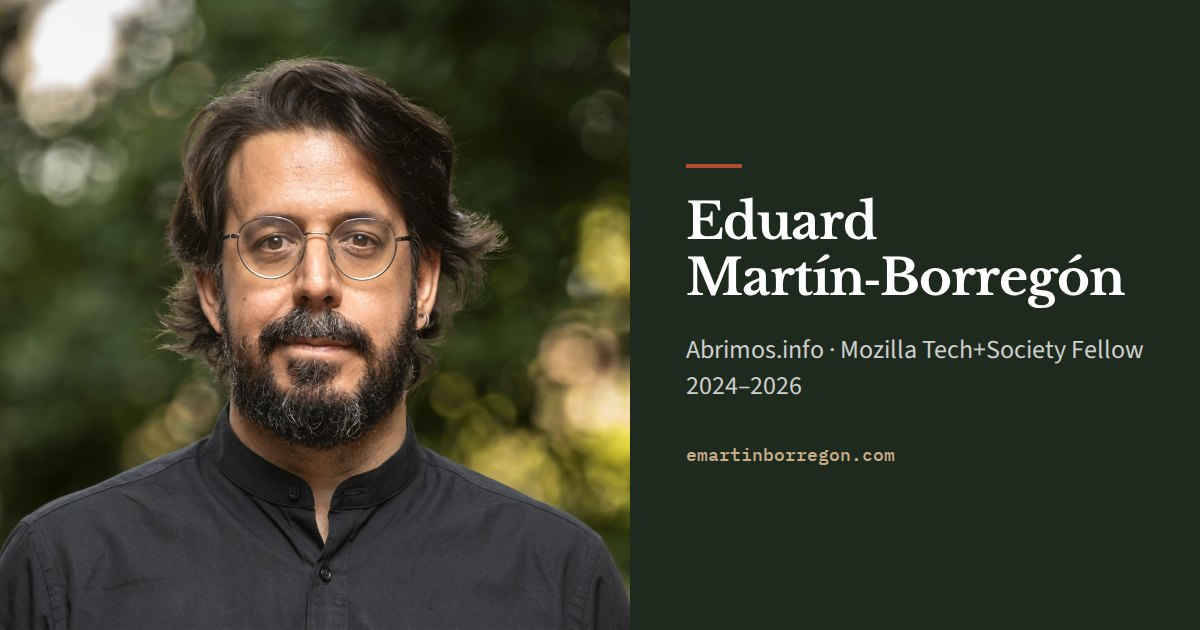
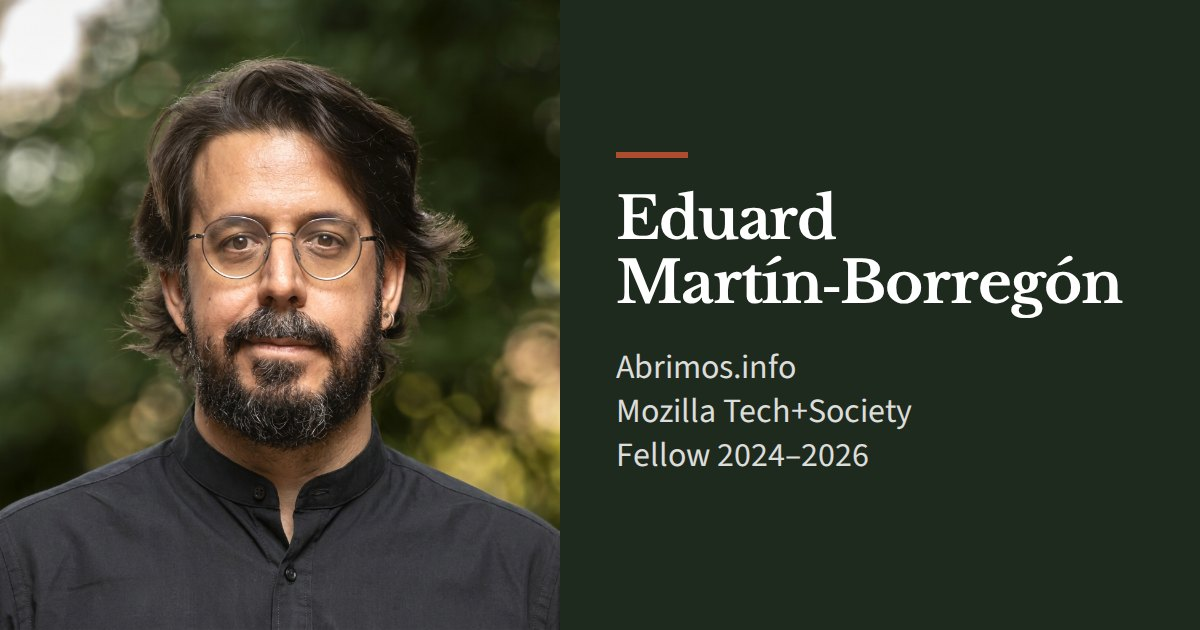
Tarjeta og:image con texto más grande, legible en el feed móvil

diff --git a/ca/index.html b/ca/index.html
@@ -34,7 +34,7 @@
 	<meta property="og:url" content="https://emartinborregon.com/ca/" />
 	<meta property="og:title" content="Eduard Martín-Borregón | Segueixo els diners públics i investigo la compra pública (ara amb IA)" />
 	<meta property="og:description" content="Periodista de dades i director executiu d'Abrimos.info. Segueixo els diners públics i la compra pública a l'Amèrica Llatina, ara també amb IA. Sigma Award 2020 i Mozilla Fellow 2024-2026." />
-	<meta property="og:image" content="https://emartinborregon.com/images/og-emb.jpg" />
+	<meta property="og:image" content="https://emartinborregon.com/images/og-emb.jpg?v=2" />
 	<meta property="og:image:width" content="1200" />
 	<meta property="og:image:height" content="630" />
 	<meta property="og:image:alt" content="Retrat d'Eduard Martín-Borregón" />

diff --git a/en/index.html b/en/index.html
@@ -34,7 +34,7 @@
 	<meta property="og:url" content="https://emartinborregon.com/en/" />
 	<meta property="og:title" content="Eduard Martín-Borregón | I follow public money and investigate public procurement (now with AI)" />
 	<meta property="og:description" content="Data journalist and Executive Director of Abrimos.info. I follow public money and public procurement in Latin America, now with AI too. 2020 Sigma Award winner and Mozilla Fellow 2024-2026." />
-	<meta property="og:image" content="https://emartinborregon.com/images/og-emb.jpg" />
+	<meta property="og:image" content="https://emartinborregon.com/images/og-emb.jpg?v=2" />
 	<meta property="og:image:width" content="1200" />
 	<meta property="og:image:height" content="630" />
 	<meta property="og:image:alt" content="Portrait of Eduard Martín-Borregón" />

diff --git a/index.html b/index.html
@@ -34,7 +34,7 @@
 	<meta property="og:url" content="https://emartinborregon.com/" />
 	<meta property="og:title" content="Eduard Martín-Borregón | Sigo el dinero público e investigo la compra pública (ahora con IA)" />
 	<meta property="og:description" content="Periodista de datos y director ejecutivo de Abrimos.info. Sigo el dinero público y la compra pública en América Latina, ahora también con IA. Sigma Award 2020 y Mozilla Fellow 2024-2026." />
-	<meta property="og:image" content="https://emartinborregon.com/images/og-emb.jpg" />
+	<meta property="og:image" content="https://emartinborregon.com/images/og-emb.jpg?v=2" />
 	<meta property="og:image:width" content="1200" />
 	<meta property="og:image:height" content="630" />
 	<meta property="og:image:alt" content="Retrato de Eduard Martín-Borregón" />

diff --git a/ca/ia.html b/ca/ia.html
@@ -34,7 +34,7 @@
 	<meta property="og:url" content="https://emartinborregon.com/ca/ia.html" />
 	<meta property="og:title" content="Com faig servir la IA | Eduard Martín-Borregón" />
 	<meta property="og:description" content="Principis amb què Eduard Martín-Borregón fa servir la intel·ligència artificial en el periodisme de dades, la investigació i els productes d'Abrimos.info." />
-	<meta property="og:image" content="https://emartinborregon.com/images/og-emb.jpg" />
+	<meta property="og:image" content="https://emartinborregon.com/images/og-emb.jpg?v=2" />
 	<meta property="og:image:width" content="1200" />
 	<meta property="og:image:height" content="630" />
 	<meta property="og:image:alt" content="Retrat d'Eduard Martín-Borregón" />

diff --git a/referencias.html b/referencias.html
@@ -34,7 +34,7 @@
 	<meta property="og:url" content="https://emartinborregon.com/referencias.html" />
 	<meta property="og:title" content="Referencias | Eduard Martín-Borregón" />
 	<meta property="og:description" content="Lista verificada de artículos, cobertura de prensa, charlas, premios y perfiles de Eduard Martín-Borregón, periodista de datos y director de Abrimos.info." />
-	<meta property="og:image" content="https://emartinborregon.com/images/og-emb.jpg" />
+	<meta property="og:image" content="https://emartinborregon.com/images/og-emb.jpg?v=2" />
 	<meta property="og:image:width" content="1200" />
 	<meta property="og:image:height" content="630" />
 	<meta property="og:image:alt" content="Retrato de Eduard Martín-Borregón" />

diff --git a/en/references.html b/en/references.html
@@ -34,7 +34,7 @@
 	<meta property="og:url" content="https://emartinborregon.com/en/references.html" />
 	<meta property="og:title" content="References | Eduard Martín-Borregón" />
 	<meta property="og:description" content="Verified list of articles, press coverage, talks, awards and profiles of Eduard Martín-Borregón, data journalist and Executive Director of Abrimos.info." />
-	<meta property="og:image" content="https://emartinborregon.com/images/og-emb.jpg" />
+	<meta property="og:image" content="https://emartinborregon.com/images/og-emb.jpg?v=2" />
 	<meta property="og:image:width" content="1200" />
 	<meta property="og:image:height" content="630" />
 	<meta property="og:image:alt" content="Portrait of Eduard Martín-Borregón" />

diff --git a/ca/referencies.html b/ca/referencies.html
@@ -34,7 +34,7 @@
 	<meta property="og:url" content="https://emartinborregon.com/ca/referencies.html" />
 	<meta property="og:title" content="Referències | Eduard Martín-Borregón" />
 	<meta property="og:description" content="Llista verificada d'articles, cobertura de premsa, xerrades, premis i perfils d'Eduard Martín-Borregón, periodista de dades i director d'Abrimos.info." />
-	<meta property="og:image" content="https://emartinborregon.com/images/og-emb.jpg" />
+	<meta property="og:image" content="https://emartinborregon.com/images/og-emb.jpg?v=2" />
 	<meta property="og:image:width" content="1200" />
 	<meta property="og:image:height" content="630" />
 	<meta property="og:image:alt" content="Retrat d'Eduard Martín-Borregón" />

diff --git a/ia.html b/ia.html
@@ -34,7 +34,7 @@
 	<meta property="og:url" content="https://emartinborregon.com/ia.html" />
 	<meta property="og:title" content="Cómo uso la IA | Eduard Martín-Borregón" />
 	<meta property="og:description" content="Principios con los que Eduard Martín-Borregón usa la inteligencia artificial en periodismo de datos, investigación y productos de Abrimos.info." />
-	<meta property="og:image" content="https://emartinborregon.com/images/og-emb.jpg" />
+	<meta property="og:image" content="https://emartinborregon.com/images/og-emb.jpg?v=2" />
 	<meta property="og:image:width" content="1200" />
 	<meta property="og:image:height" content="630" />
 	<meta property="og:image:alt" content="Retrato de Eduard Martín-Borregón" />

diff --git a/en/ai.html b/en/ai.html
@@ -34,7 +34,7 @@
 	<meta property="og:url" content="https://emartinborregon.com/en/ai.html" />
 	<meta property="og:title" content="How I use AI | Eduard Martín-Borregón" />
 	<meta property="og:description" content="Principles guiding how Eduard Martín-Borregón uses artificial intelligence in data journalism, investigations and Abrimos.info products." />
-	<meta property="og:image" content="https://emartinborregon.com/images/og-emb.jpg" />
+	<meta property="og:image" content="https://emartinborregon.com/images/og-emb.jpg?v=2" />
 	<meta property="og:image:width" content="1200" />
 	<meta property="og:image:height" content="630" />
 	<meta property="og:image:alt" content="Portrait of Eduard Martín-Borregón" />
